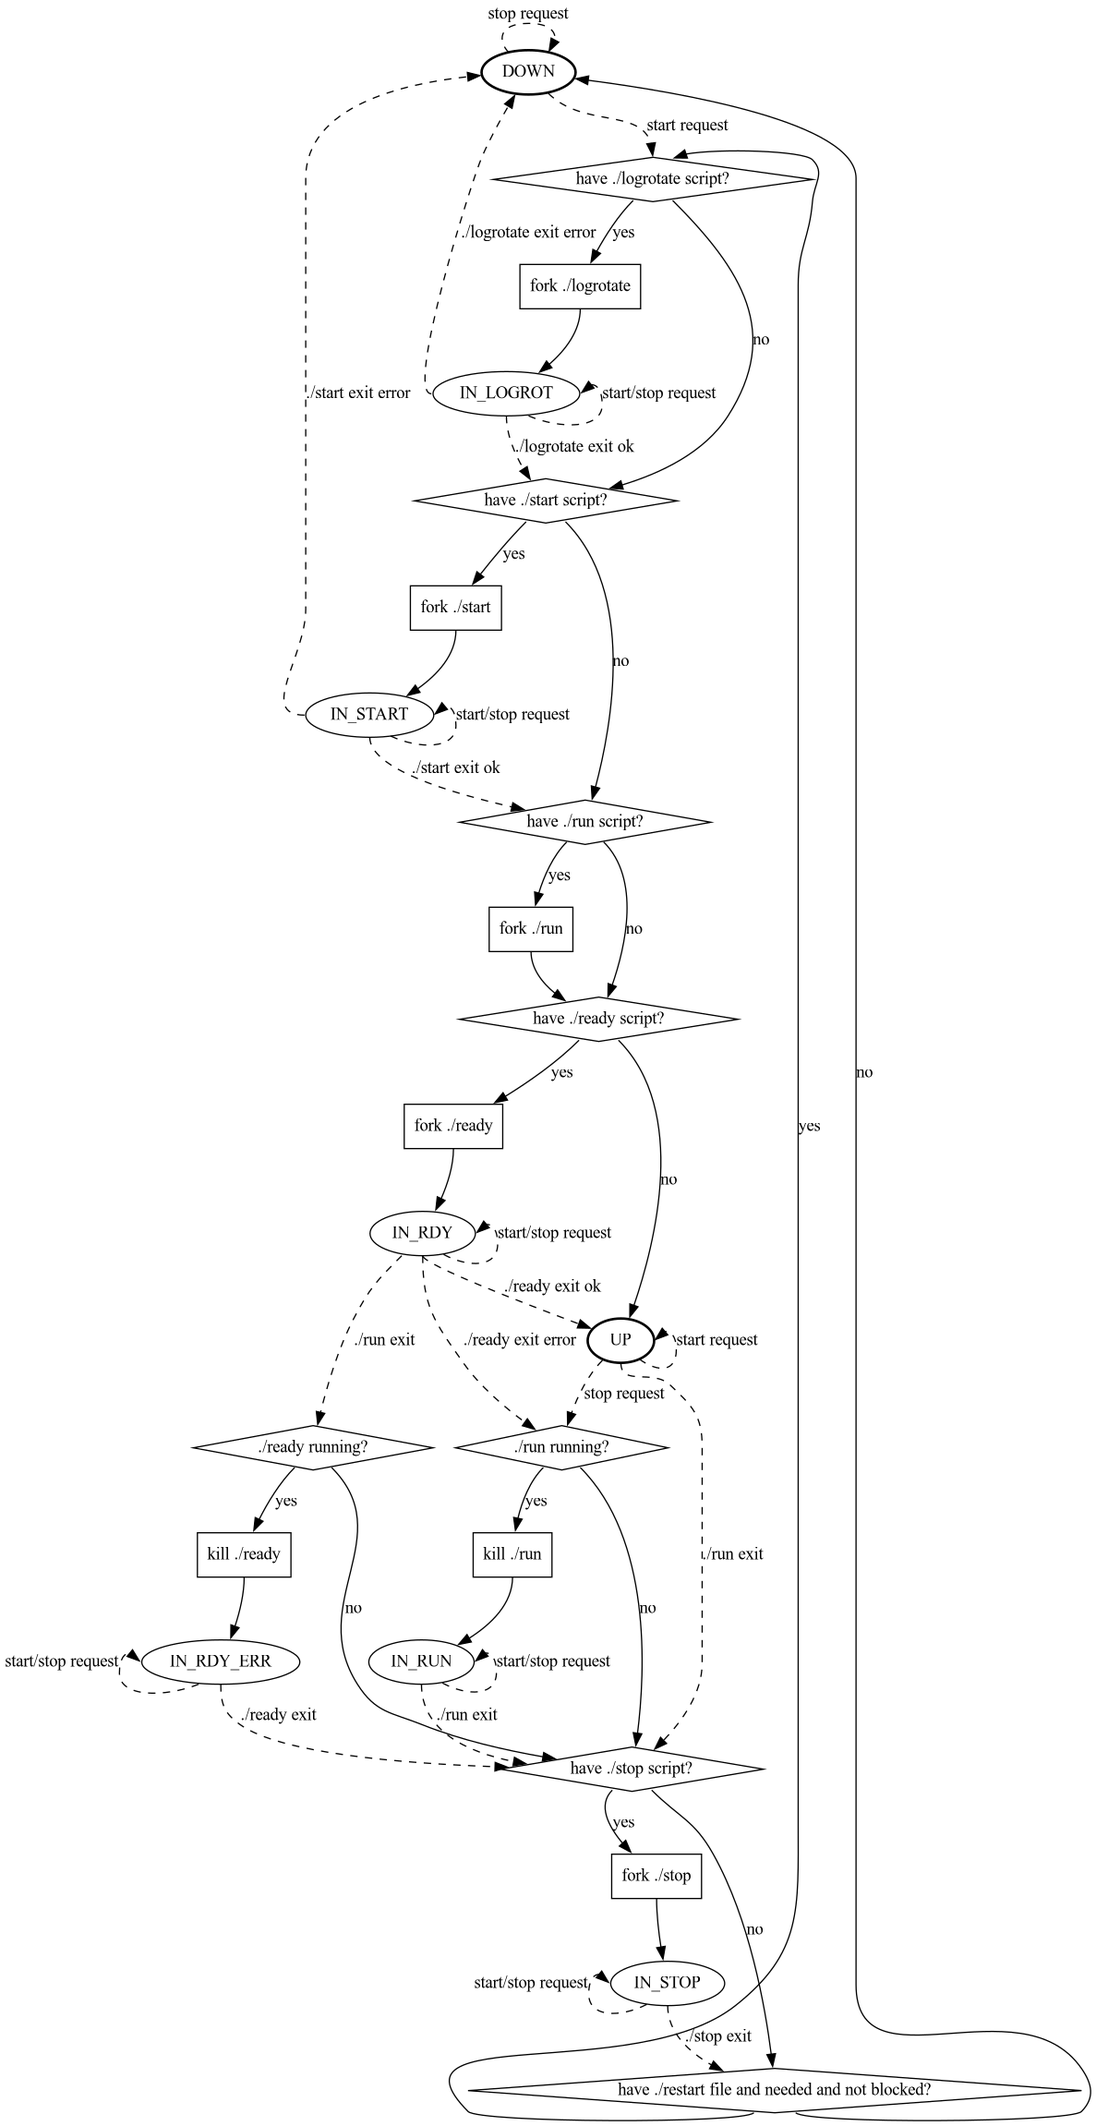
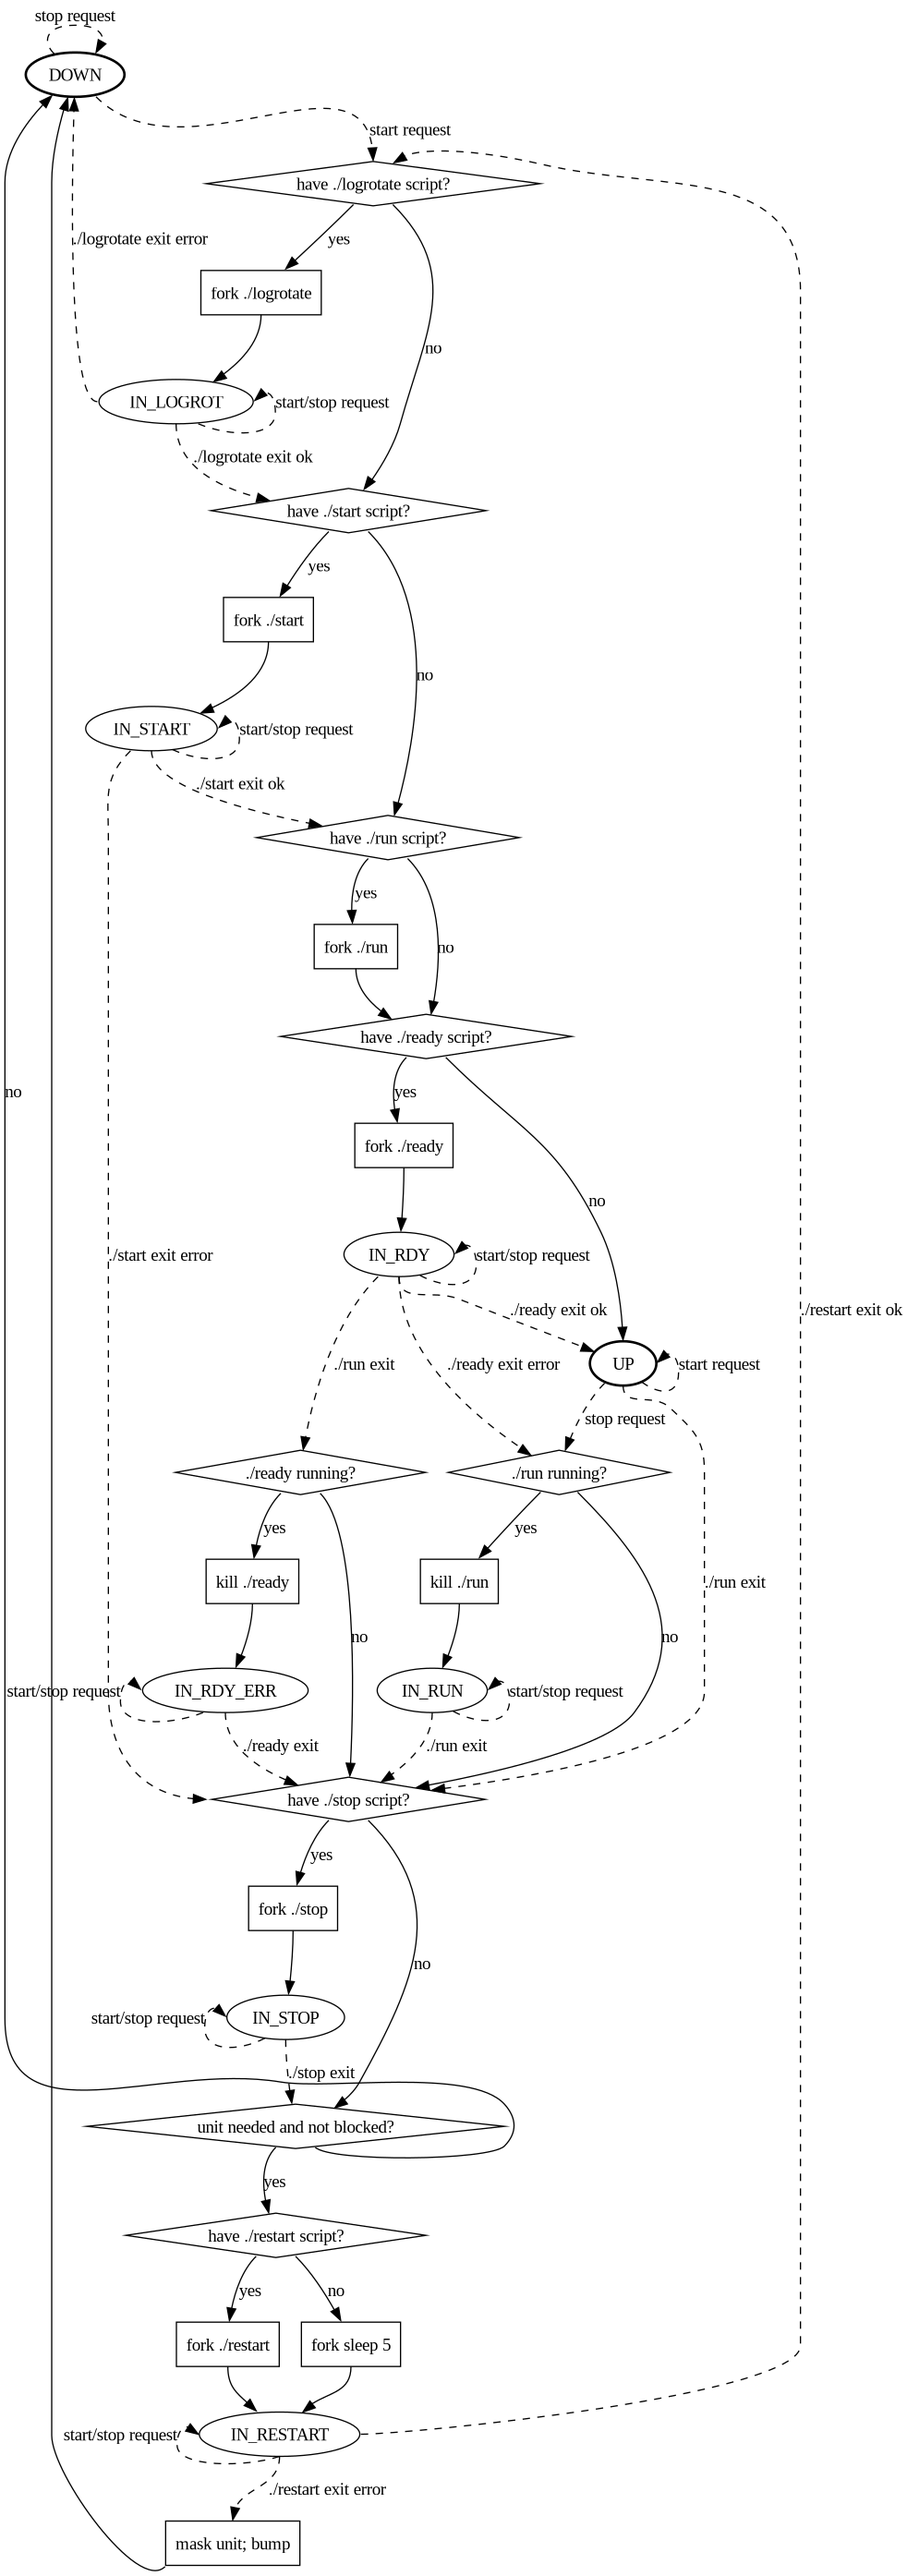
New restart semantic

diff --git a/wsunitd/unit.cpp b/wsunitd/unit.cpp
@@ -6,7 +6,7 @@
 
 
 
-unit::unit(string name) : name_(name), state(DOWN), logrot_pid(0), start_pid(0), rdy_pid(0), run_pid(0), stop_pid(0) {
+unit::unit(string name) : name_(name), state(DOWN), logrot_pid(0), start_pid(0), rdy_pid(0), run_pid(0), stop_pid(0), restart_pid(0) {
 	std::ofstream(statedir / "state" / name_) << "down" << endl;
 }
 
@@ -64,10 +64,6 @@ bool unit::can_stop(string* reason) {
 	return true;
 }
 
-bool unit::restart(void) {
-	return exists(dir() / "restart");
-}
-
 bool unit::need_settle(void) {
 	return name_ == "@shutdown" || exists(dir() / "start-wait-settled");
 }
@@ -80,10 +76,11 @@ bool unit::has_logrot_script(void) {
 	return false;
 }
 
-bool unit::has_start_script(void) { auto p = dir() / "start"    ; return is_regular_file(p) && access(p.c_str(), X_OK) == 0; }
-bool unit::has_run_script  (void) { auto p = dir() / "run"      ; return is_regular_file(p) && access(p.c_str(), X_OK) == 0; }
-bool unit::has_rdy_script  (void) { auto p = dir() / "ready"    ; return is_regular_file(p) && access(p.c_str(), X_OK) == 0; }
-bool unit::has_stop_script (void) { auto p = dir() / "stop"     ; return is_regular_file(p) && access(p.c_str(), X_OK) == 0; }
+bool unit::has_start_script  (void) { auto p = dir() / "start"  ; return is_regular_file(p) && access(p.c_str(), X_OK) == 0; }
+bool unit::has_run_script    (void) { auto p = dir() / "run"    ; return is_regular_file(p) && access(p.c_str(), X_OK) == 0; }
+bool unit::has_rdy_script    (void) { auto p = dir() / "ready"  ; return is_regular_file(p) && access(p.c_str(), X_OK) == 0; }
+bool unit::has_stop_script   (void) { auto p = dir() / "stop"   ; return is_regular_file(p) && access(p.c_str(), X_OK) == 0; }
+bool unit::has_restart_script(void) { auto p = dir() / "restart"; return is_regular_file(p) && access(p.c_str(), X_OK) == 0; }
 
 enum unit::state_t unit::get_state(void) { return state; }
 
@@ -135,6 +132,10 @@ bool unit::request_start(string* reason) {
 		case IN_STOP:
 			if (reason) *reason = "currently stopping";
 			return false;
+
+		case IN_RESTART:
+			if (reason) *reason = "currently restarting";
+			return true;
 	}
 	assert(false);
 }
@@ -164,6 +165,10 @@ bool unit::request_stop(string* reason) {
 		case IN_STOP:
 			if (reason) *reason = "already stopping";
 			return true;
+
+		case IN_RESTART:
+			if (reason) *reason = "currently restarting";
+			return false;
 	}
 	assert(false);
 }
@@ -215,7 +220,12 @@ void unit::step_active_rdy  (void) { if (rdy_pid != 0       ) kill_rdy_script   
 void unit::step_active_run  (void) { if (run_pid != 0       ) kill_run_script   (); else step_have_stop   (); }
 void unit::step_have_stop   (void) { if (has_stop_script  ()) fork_stop_script  (); else step_have_restart(); }
 
-void unit::step_have_restart(void) { if (restart() && needed() && !blocked()) step_have_logrot(); else set_state(DOWN); }
+void unit::step_have_restart(void) {
+	if (needed() && !blocked())
+		fork_restart_script();
+	else
+		set_state(DOWN);
+}
 
 void unit::fork_logrot_script(void) {
 	assert(has_logrot_script());
@@ -354,6 +364,46 @@ void unit::fork_stop_script(void) {
 	}
 }
 
+void unit::fork_restart_script(void) {
+	bool use_script;
+	if (has_restart_script()) {
+		use_script = true;
+		log::note(term_name() + ": exec stop script");
+	}
+	else {
+		use_script = false;
+		log::note(term_name() + ": no ./restart script, exec sleep 5");
+	}
+	pid_t pid = fork_();
+	if (pid == 0) {
+		if (chdir(dir().c_str()) == -1) {
+			log::err("failed to chdir to " + dir().string() + ": " + strerror(errno));
+			exit(1);
+		}
+		pid_t sid = setsid();
+		if (sid == -1) {
+			log::err(string("failed to run setsid: ") + strerror(errno));
+			exit(1);
+		}
+		log::debug(string("fork restart as pid ") + to_string(getpid()) + " sid " + to_string(sid));
+		output_logfile(name() + ".log");
+		if (use_script) {
+			log::note("launch ./restart");
+			execl((dir() / "restart").c_str(), (dir() / "restart").c_str(), (char*) NULL);
+		}
+		else {
+			log::note("launch sleep 5");
+			execlp("sleep", "sleep", "5", (char*) NULL);
+		}
+		exit(1);
+	}
+	else if (pid > 0) {
+		term_add(pid, on_restart_exit, shared_from_this());
+		restart_pid = pid;
+		set_state(IN_RESTART);
+	}
+}
+
 void unit::kill_rdy_script(void) {
 	assert(rdy_pid);
 	log::debug(term_name() + ": kill(" + to_string(rdy_pid) + ", " + signal_string(SIGTERM) + ")");
@@ -396,7 +446,7 @@ void unit::kill_run_script(void) {
 		if (status_ok(u, "start", status))
 			u->step_have_run();
 		else
-			u->set_state(DOWN);
+			u->step_have_stop();
 
 		depgraph::queue_step();
 	}
@@ -462,6 +512,17 @@ void unit::kill_run_script(void) {
 		u->step_have_restart();
 
 		depgraph::queue_step();
+	}
+
+	void unit::on_restart_exit(pid_t pid, shared_ptr<unit> u, int status) {
+		assert(u->state == IN_RESTART);
+
+		log::debug(u->term_name() + ": kill(-" + to_string(u->restart_pid) + ", " + signal_string(SIGTERM) + ")");
+		kill(-u->restart_pid, SIGTERM);
+		u->restart_pid = 0;
+
+		status_ok(u, "restart", status);
+		depgraph::start(u);
 	}
 
 	void unit::on_event_exit(pid_t pid, shared_ptr<unit> u, int status) {

diff --git a/wsunitd/wsunitd.hpp b/wsunitd/wsunitd.hpp
@@ -36,16 +36,16 @@ class unit : public enable_shared_from_this<unit> {
 		bool blocked    (void);
 		bool can_start  (string* reason = 0);
 		bool can_stop   (string* reason = 0);
-		bool restart    (void);
 		bool need_settle(void);
 
-		bool has_logrot_script(void);
-		bool has_start_script (void);
-		bool has_run_script   (void);
-		bool has_rdy_script   (void);
-		bool has_stop_script  (void);
+		bool has_logrot_script (void);
+		bool has_start_script  (void);
+		bool has_run_script    (void);
+		bool has_rdy_script    (void);
+		bool has_stop_script   (void);
+		bool has_restart_script(void);
 
-		enum state_t { DOWN, IN_LOGROT, IN_START, IN_RDY, UP, IN_RDY_ERR, IN_RUN, IN_STOP };
+		enum state_t { DOWN, IN_LOGROT, IN_START, IN_RDY, UP, IN_RDY_ERR, IN_RUN, IN_STOP, IN_RESTART };
 		enum state_t get_state(void);
 		static string state_descr     (state_t state);
 		static string term_state_descr(state_t state);
@@ -59,11 +59,12 @@ class unit : public enable_shared_from_this<unit> {
 		const string name_;
 		state_t state;
 
-		pid_t logrot_pid;
-		pid_t  start_pid;
-		pid_t    rdy_pid;
-		pid_t    run_pid;
-		pid_t   stop_pid;
+		pid_t  logrot_pid;
+		pid_t   start_pid;
+		pid_t     rdy_pid;
+		pid_t     run_pid;
+		pid_t    stop_pid;
+		pid_t restart_pid;
 
 		void set_state(state_t state);
 
@@ -77,21 +78,23 @@ class unit : public enable_shared_from_this<unit> {
 		void step_have_stop   (void);
 		void step_have_restart(void);
 
-		void fork_logrot_script(void);
-		void fork_start_script (void);
-		void fork_run_script   (void);
-		void fork_rdy_script   (void);
-		void fork_stop_script  (void);
+		void fork_logrot_script (void);
+		void fork_start_script  (void);
+		void fork_run_script    (void);
+		void fork_rdy_script    (void);
+		void fork_stop_script   (void);
+		void fork_restart_script(void);
 
 		void kill_rdy_script(void);
 		void kill_run_script(void);
 
-		static void on_logrot_exit(pid_t pid, shared_ptr<unit> u, int status);
-		static void on_start_exit (pid_t pid, shared_ptr<unit> u, int status);
-		static void on_rdy_exit   (pid_t pid, shared_ptr<unit> u, int status);
-		static void on_run_exit   (pid_t pid, shared_ptr<unit> u, int status);
-		static void on_stop_exit  (pid_t pid, shared_ptr<unit> u, int status);
-		static void on_event_exit (pid_t pid, shared_ptr<unit> u, int status);
+		static void on_logrot_exit (pid_t pid, shared_ptr<unit> u, int status);
+		static void on_start_exit  (pid_t pid, shared_ptr<unit> u, int status);
+		static void on_rdy_exit    (pid_t pid, shared_ptr<unit> u, int status);
+		static void on_run_exit    (pid_t pid, shared_ptr<unit> u, int status);
+		static void on_stop_exit   (pid_t pid, shared_ptr<unit> u, int status);
+		static void on_restart_exit(pid_t pid, shared_ptr<unit> u, int status);
+		static void on_event_exit  (pid_t pid, shared_ptr<unit> u, int status);
 };
 
 class depgraph {

diff --git a/README.md b/README.md
@@ -29,12 +29,11 @@ number of the following:
 - An executable `run` file.
 - An executable `ready` file.
 - An executable `stop` file.
+- An executable `restart` file.
 - A directory named `deps`. Every file in this directory declares a dependency
   on the unit with the same name. File contents are ignored.
 - A directory named `revdeps`. Every file in this directory declares a reverse
   dependency on the unit with the same name. File contents are ignored.
-- A file named `restart`, indicating that the unit should be restarted when
-  it goes down unexpectedly. Not implemented yet.
 - A file named `start-wait-settle`, indicating that the unit should only be
   started after all units that should be brought down have reached the _down_
   state.
@@ -104,8 +103,8 @@ On start (each if applicable):
   to the `DOWN` state.
 - The `start` file is called with the unit's directory in `WSUNIT_CONFIG_DIR` as
   working directory, stdout and stderr will append to
-  `WSUNIT_LOG_DIR/<name>.log`. If this script fails, the unit returns to the
-  `DOWN` state.
+  `WSUNIT_LOG_DIR/<name>.log`. If this script fails, `stop` is run before the
+  unit returns to the `DOWN` state.
 - The `run` file is started with the unit's directory in `WSUNIT_CONFIG_DIR` as
   working directory, stdout and stderr will append to
   `WSUNIT_LOG_DIR/<name>.log`. If this script exits, the unit begins the stop
@@ -119,8 +118,12 @@ On stop (each if applicable):
 
 - The `stop` file is called with the unit's directory in `WSUNIT_CONFIG_DIR` as
   working directory, stdout and stderr will append to
-  `WSUNIT_LOG_DIR/<name>.log`. The unit is marked as down as soon as this script
-  exits.
+  `WSUNIT_LOG_DIR/<name>.log`.
+- If the unit is not needed or masked, it returns to the `DOWN` state.
+  Otherwise, the `restart` script (or alternatively `sleep 5`) is run. If it
+  exits successfully, the unit is started again as described above. If it exits
+  with an error, the unit is masked and its reverse dependencies are brought
+  down.
 
 Details:
 
@@ -136,6 +139,7 @@ Details:
 | `IN_RDY_ERR`   | _running_      |
 | `IN_RUN`       | _running_      |
 | `IN_STOP`      | _running_      |
+| `IN_RESTART`   | _running_      |
 
 ## Events
 
